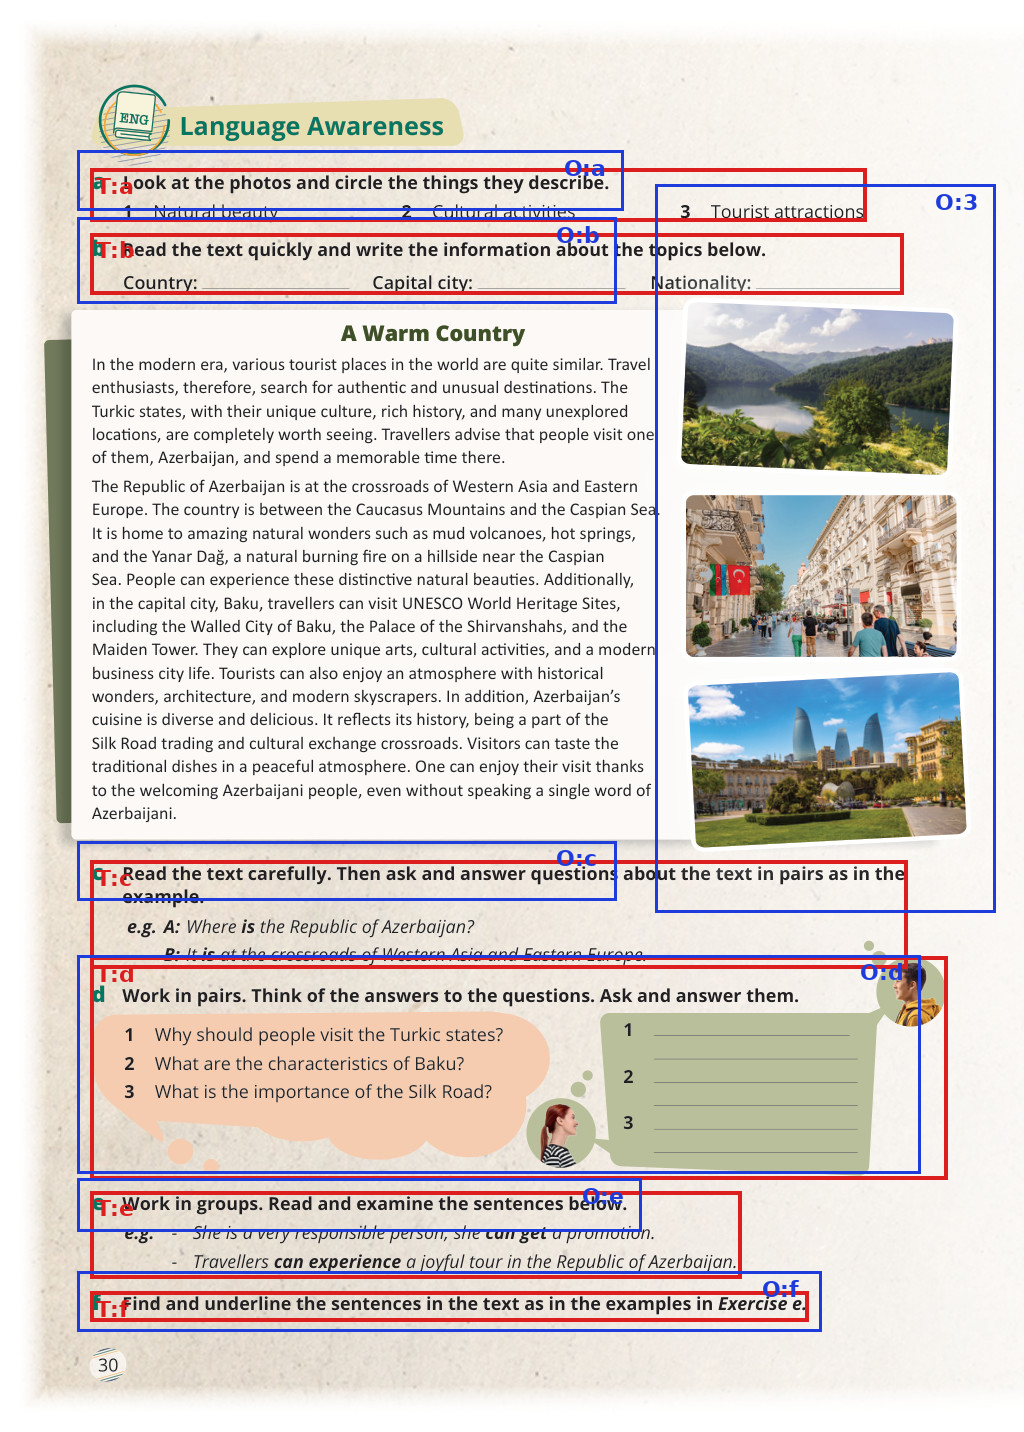
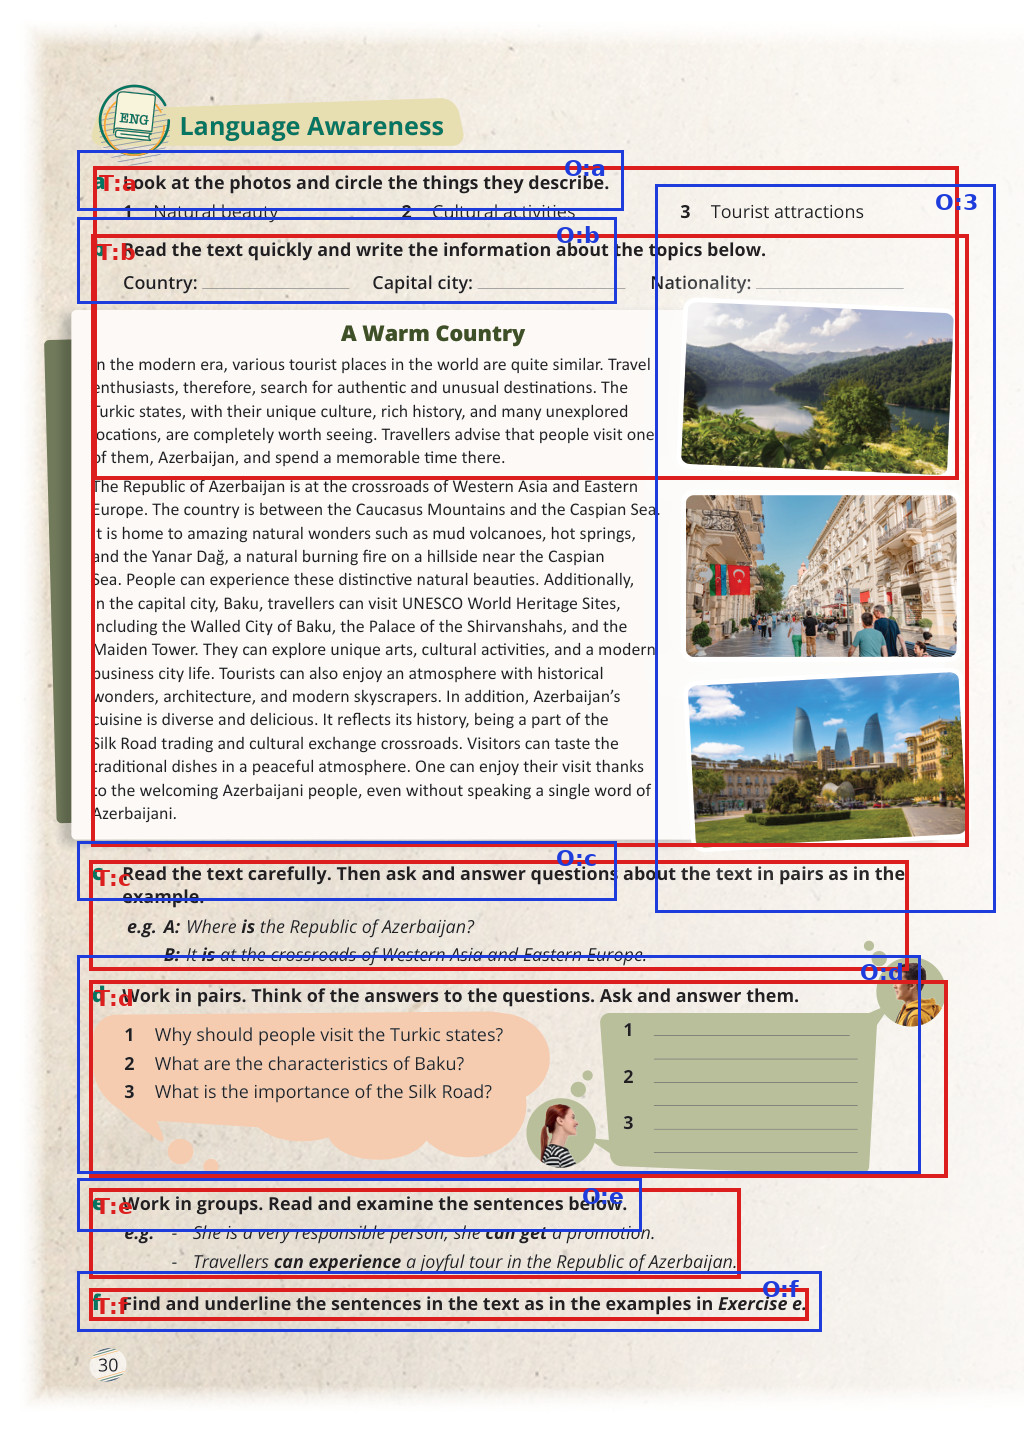
vision: Phase 0 — teacher is gemini-3.6-flash-low; referenced pictures go in the box
User decisions after the first proof: do not use Gemini 3.1 Pro, use
Gemini 3.6 Flash Low; a picture or passage the instruction refers to
belongs whole inside the activity box. Prompt updated, page 31 re-asked
with the new model and prompt, drawing and handoff redone.

diff --git a/tools/hotspot_extraction/vision/runs/phase0_draw.py b/tools/hotspot_extraction/vision/runs/phase0_draw.py
@@ -1,9 +1,12 @@
-"""Phase 0 proof: draw the teacher's boxes (red) and the old bake's boxes (blue) on page 31."""
+"""Phase 0 proof: draw the teacher's boxes (red) and the old bake's boxes (blue) on page 31.
+
+Usage: phase0_draw.py [runs/phase0-agy-<call>.json]   (default: the gemini-3.6-flash-low call)"""
 import json, re, sys
 from PIL import Image, ImageDraw, ImageFont
 
 ROOT = "../../../"
-reply = json.load(open("runs/phase0-agy-try3.json"))["response"]
+SRC = sys.argv[1] if len(sys.argv) > 1 else "runs/phase0-agy-flash36low.json"
+reply = json.load(open(SRC))["response"]
 m = re.search(r"```json\s*(.*?)```", reply, re.S)
 boxes = json.loads(m.group(1) if m else reply)
 json.dump(boxes, open("runs/phase0-page31.teacher.json", "w"), indent=1)

diff --git a/tools/hotspot_extraction/vision/runs/phase0-HANDOFF.md b/tools/hotspot_extraction/vision/runs/phase0-HANDOFF.md
@@ -12,7 +12,7 @@ Date: 2026-09-28. Plan: `tools/hotspot_extraction/vision/PLAN.md`, Phase 0.
 | `.gitignore`: `.venv-vision/`, `data/vision/` | done |
 | Gemini CLI `gemini` 0.61.0 (`npm i -g @google/gemini-cli`) | installed, **not logged in** (error code 41: no auth method). Not needed: see below. |
 | Antigravity CLI `agy` 1.2.12 (`~/.local/bin/agy`, from `https://antigravity.google/cli/install.sh`) | installed, **already logged in** through the Antigravity IDE account; no browser step, no key |
-| `vision/teacher_prompt.md` | Phase 0 draft prompt, verbatim from the plan |
+| `vision/teacher_prompt.md` | Phase 0 draft prompt from the plan, plus one sentence the user asked for: a picture, photo, diagram, chart or passage the instruction refers to belongs whole inside the box, even when printed far from the instruction |
 | `vision/runs/phase0-page31.jpg` + `.index.json` | page 31 of book `0a3fbb41`, 1024×1432 px, JPEG q90, page 569.764×796.535 pt |
 | `vision/runs/phase0-agy-*.json` / `.stderr` | raw CLI envelopes for every call made |
 | `vision/runs/phase0-page31.teacher.json` | the parsed boxes from the accepted call |
@@ -57,24 +57,37 @@ medium,low}`, `gemini-3.7-flash-*`, `gemini-3.6-flash-*`,
 the CLI uses when `--model` is omitted is not printed anywhere; Phase 2
 should always pass `--model` explicitly.
 
+**User decision (2026-09-28, after seeing the calls below): the teacher is
+`gemini-3.6-flash-low`. Do not use Gemini 3.1 Pro.** Phase 2 calls
+`agy --model gemini-3.6-flash-low`.
+
 Gemini CLI (`gemini`) was installed as the plan said but never logged in,
 because `agy` already had the account. If `agy` ever stops working, the
 `gemini` route needs `GOOGLE_GENAI_USE_GCA=true` and a one-time browser
 login by the user; its `@path` attachment is untested here.
 
-## The calls (page 31 of `0a3fbb41`, 4 requests total)
+## The calls (page 31 of `0a3fbb41`, 5 requests total)
+
+The first four used the plan's draft prompt. The last one, made after the
+user's two decisions, used the current `teacher_prompt.md` (with the
+referenced-pictures sentence) and the chosen model.
 
 | Call | Model | Result | in / out / thinking / cache_read tokens | seconds |
 | --- | --- | --- | --- | --- |
 | `phase0-agy-default` | default, `@path` | empty response, RunCommand denied | 26,423 / 1,662 / 1,519 / 0 | 12.3 |
 | `phase0-agy-try2` | default, `@path`, "no tools" | model explained `@path` is text and asked to use `view_file` | 12,495 / 16,144 / 15,914 / 0 | 56.3 |
-| `phase0-agy-try3` | default, `view_file` | **6 boxes, a–f; saw the image** | 82,716 / 35,176 / 34,585 / 146,948 | 148.7 |
-| `phase0-agy-pro` | `gemini-3.1-pro-high`, `view_file` | 6 boxes, a–f, same layout; saw the image | 15,138 / 9,727 / 9,391 / 12,143 | 79.3 |
+| `phase0-agy-try3` | default, `view_file` | 6 boxes, a–f; saw the image | 82,716 / 35,176 / 34,585 / 146,948 | 148.7 |
+| `phase0-agy-pro` | `gemini-3.1-pro-high`, `view_file` | 6 boxes, a–f, same layout; saw the image (model rejected by user afterwards) | 15,138 / 9,727 / 9,391 / 12,143 | 79.3 |
+| `phase0-agy-flash36low` | **`gemini-3.6-flash-low`**, `view_file`, current prompt | **6 boxes, a–f; saw the image; b now spans the passage and photos** (the accepted call) | 16,670 / 361 / 0 / 12,202 | 50.5 |
 
 (A trivial "reply OK" call with no image costs about 12,300 input tokens:
 that is the CLI's own system prompt, so it is the floor per request.)
 
 Proof that the model saw the picture, quoted from the replies:
+
+> flash36low: "In the photographs on the page, you can see a scenic mountain
+> lake surrounded by lush green hills and trees, and modern skyscraper
+> towers standing beyond a city park in Baku."
 
 > try3: "In the photographs on the page, I can see a mountain lake
 > surrounded by forested hills and the Flame Towers skyscrapers overlooking
@@ -83,7 +96,22 @@ Proof that the model saw the picture, quoted from the replies:
 > pro: "In the photographs on the page, I can see a scenic mountain lake
 > and modern skyscrapers."
 
-Raw JSON from the accepted call (`phase0-agy-try3`, `[ymin, xmin, ymax, xmax]` in 0–1000):
+Raw JSON from the accepted call (`phase0-agy-flash36low`, `gemini-3.6-flash-low`,
+current prompt, `[ymin, xmin, ymax, xmax]` in 0–1000):
+
+```json
+[
+  {"box_2d": [116, 91, 335, 936], "label": "a"},
+  {"box_2d": [164, 89, 591, 946], "label": "b"},
+  {"box_2d": [601, 87, 678, 887], "label": "c"},
+  {"box_2d": [685, 87, 822, 925], "label": "d"},
+  {"box_2d": [830, 87, 893, 723], "label": "e"},
+  {"box_2d": [900, 87, 922, 790], "label": "f"}
+]
+```
+
+Earlier, with the plan's draft prompt (no referenced-pictures sentence), the
+default model (`phase0-agy-try3`) returned:
 
 ```json
 [
@@ -96,7 +124,7 @@ Raw JSON from the accepted call (`phase0-agy-try3`, `[ymin, xmin, ymax, xmax]` i
 ]
 ```
 
-And from the Pro call, for comparison (agrees to within ~2 % on every edge):
+And the Pro call, same draft prompt (agrees with try3 to within ~2 % on every edge):
 
 ```json
 [
@@ -111,38 +139,53 @@ And from the Pro call, for comparison (agrees to within ~2 % on every edge):
 
 ## What the drawn page shows (`phase0-page31.png`)
 
+Drawn from the accepted call (`gemini-3.6-flash-low`, current prompt).
 Old bake (blue) has 7 boxes on this page; the teacher (red) has 6.
 
+- **b** ("Read the text quickly and write..."): the teacher now takes the
+  instruction, the blanks, the whole "A Warm Country" passage and all three
+  photographs. That is what the user asked for (a referenced passage or
+  picture belongs whole inside the box). The old bake stops at the blanks.
 - **c**: the teacher includes the two "e.g." dialogue lines under the
   instruction; the old bake stops at the instruction and cuts the example
   off. Teacher is right (§0.3 rule 4: a referenced block whole or not at all).
 - **e**: same story with the two example sentences. Teacher is right.
 - **d**: both take the whole speech-bubble block with the three questions
   and the three answer lines. Agree.
-- **a, b, f**: both take the instruction line(s) plus the blanks. Agree.
+- **f**: both take the instruction line. Agree.
 - **Old bake's `p31-3`** is a tall box over the right column (the three
   photographs), labelled "3" from the "3 Tourist attractions" option text.
   It is a false positive. The teacher produced nothing there.
-- Open question for the Phase 2 prompt: activity **a** says "Look at the
-  photos", so by rule 4 its box arguably should include the photographs.
-  Neither model did that on the draft prompt. The Phase 2 prompt should say
-  in plain words that referenced pictures belong inside the box even when
-  they are far from the instruction.
+- **Defect to fix in the Phase 2 prompt, activity a** ("Look at the photos
+  and circle..."): the teacher's box reaches down to y=335, which takes in
+  the *first* photograph only and slices the second one. Rule 4 says the
+  whole referenced picture or none; here all three photos are referenced.
+  With the draft prompt (try3, pro) neither model included any photo. So the
+  new sentence moved the model in the right direction but not far enough:
+  Phase 2's prompt should add that when several pictures are referenced
+  together ("the photos"), the box takes all of them, and that a box may
+  never cut through a picture.
+- Boxes **a** and **b** now overlap (both cover the passage/photo area).
+  That is inherent when two activities reference the same block, and it is
+  what §0.3 rule 4 implies. `qa.py` in Phase 2 must not count this kind of
+  overlap as a violation by itself; the snap step decides how to present it.
 
 ## Cost arithmetic for Phase 2 (real numbers)
 
-Per page with the Pro model: ~15 k input, ~10 k output tokens, ~80 s wall
-clock, one CLI request. The subscription is metered in requests, not tokens,
-so 1,200 pages is 1,200 requests, about 27 hours of serial wall clock at
-80 s each. Run 3–4 CLI processes in parallel to fit a quota-day, and check
-that the parallel calls do not trip a rate limit. Money spent in Phase 0: $0.
+Per page with `gemini-3.6-flash-low`: ~16.7 k input (of which ~12.2 k is
+the CLI's own system prompt, served from cache), ~360 output tokens, no
+thinking tokens, ~50 s wall clock, one CLI request. The subscription is
+metered in requests, not tokens, so 1,200 pages is 1,200 requests, about
+17 hours of serial wall clock at 50 s each. Run 3–4 CLI processes in
+parallel to fit a quota-day, and check that the parallel calls do not trip a
+rate limit. Money spent in Phase 0: $0, five requests.
 
 ## Reproduce
 
 ```bash
 cd tools/hotspot_extraction/vision
-agy --model gemini-3.1-pro-high -p "First use your view_file tool to look at the image file runs/phase0-page31.jpg (it is a JPEG; do not run shell commands, only view the file). Then, before the JSON, write one sentence naming two things you can see in the photographs on the page. $(cat teacher_prompt.md)" --output-format json > runs/phase0-agy-pro.json
-../../../.venv-vision/bin/python runs/phase0_draw.py   # reads phase0-agy-try3.json
+agy --model gemini-3.6-flash-low -p "First use your view_file tool to look at the image file runs/phase0-page31.jpg (it is a JPEG; do not run shell commands, only view the file). Then, before the JSON, write one sentence naming two things you can see in the photographs on the page. $(cat teacher_prompt.md)" --output-format json > runs/phase0-agy-flash36low.json
+../../../.venv-vision/bin/python runs/phase0_draw.py   # default input: runs/phase0-agy-flash36low.json; pass another call file to compare
 ```
 
 ## Left undone
@@ -151,5 +194,8 @@ Nothing from the Phase 0 task list. Not done on purpose (out of scope):
 no other pages rendered, nothing trained, `scan.py` untouched, Gemini CLI
 login skipped because `agy` already had the account.
 
-Commit: branch `phase0-vision-env`, phase commit `b6ff488`; this hash was added by the
-follow-up commit that adds this line.
+Commits: branch `phase0-vision-env`. `b6ff488` is the phase commit (draft
+prompt, default and Pro calls), `21b27a5` recorded that hash, and the third
+commit on the branch adds the user's two decisions: the referenced-pictures
+sentence in the prompt, the `gemini-3.6-flash-low` call, and the redrawn
+page. `git log --oneline main..phase0-vision-env` lists them.

diff --git a/tools/hotspot_extraction/vision/teacher_prompt.md b/tools/hotspot_extraction/vision/teacher_prompt.md
@@ -1,1 +1,1 @@
-This is a page from a school textbook. Find every student activity: an exercise, question or task a student is meant to answer. Return one box per activity. A box must include the activity's instruction text, everything the instruction refers to (pictures, diagrams, tables, dialogues) and the space where the student writes the answer (blank lines, boxes, grids). Two activities never share a box. Body text that is not an exercise gets no box. Return JSON: a list of objects with `box_2d` as `[ymin, xmin, ymax, xmax]` normalised to 0–1000 and `label` as the printed label of the activity (like "a", "b", "3") or null.
+This is a page from a school textbook. Find every student activity: an exercise, question or task a student is meant to answer. Return one box per activity. A box must include the activity's instruction text, everything the instruction refers to (pictures, diagrams, tables, dialogues) and the space where the student writes the answer (blank lines, boxes, grids). If the instruction refers to a picture, photo, diagram, chart or text passage, that whole picture or passage belongs inside the box, even when it is printed far from the instruction; never include only part of it. Two activities never share a box. Body text that is not an exercise gets no box. Return JSON: a list of objects with `box_2d` as `[ymin, xmin, ymax, xmax]` normalised to 0–1000 and `label` as the printed label of the activity (like "a", "b", "3") or null.
